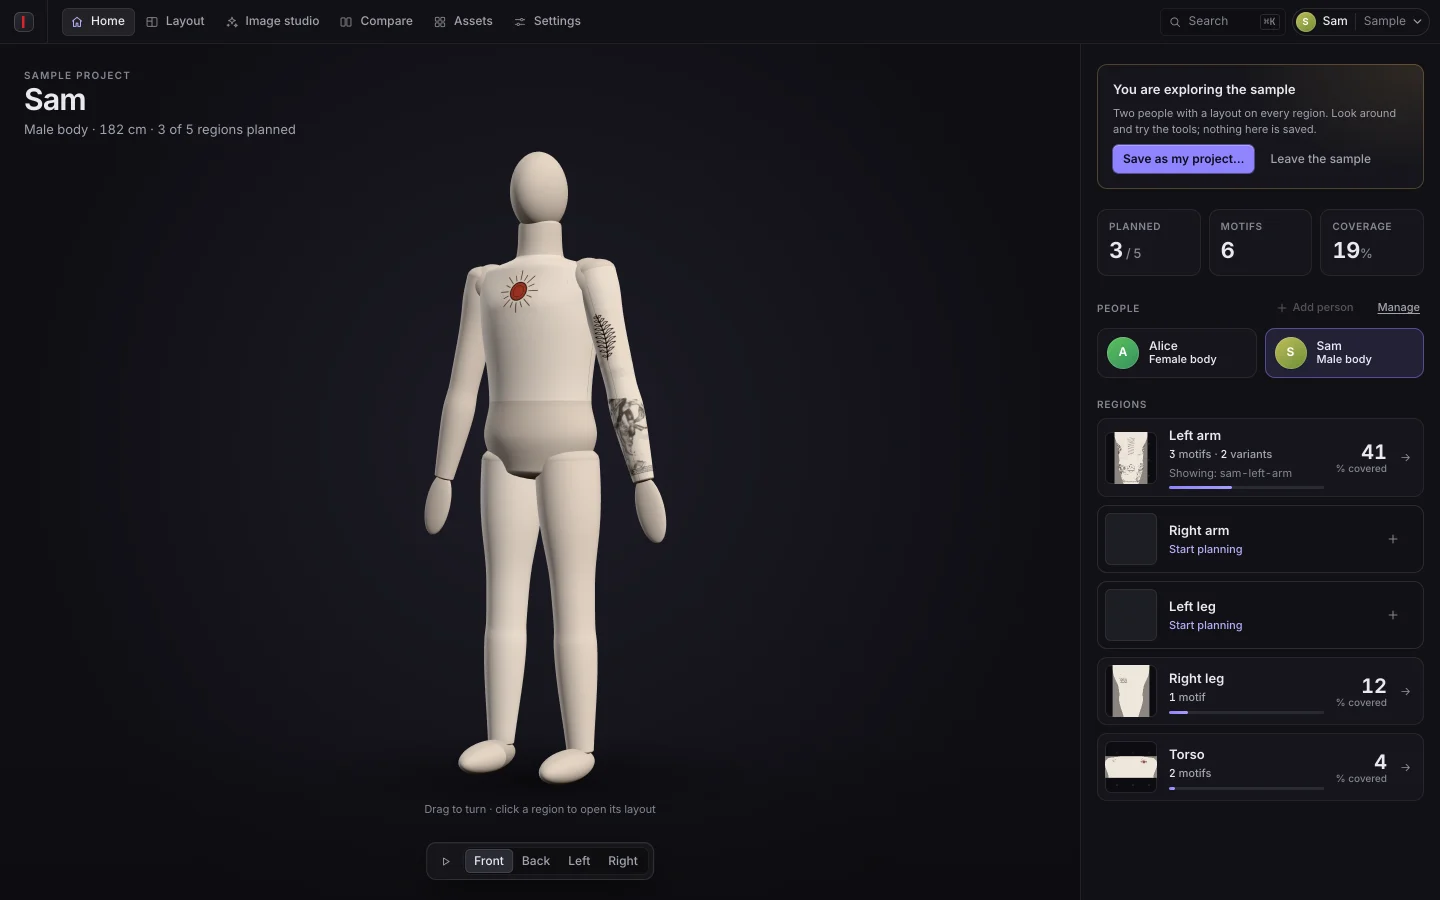
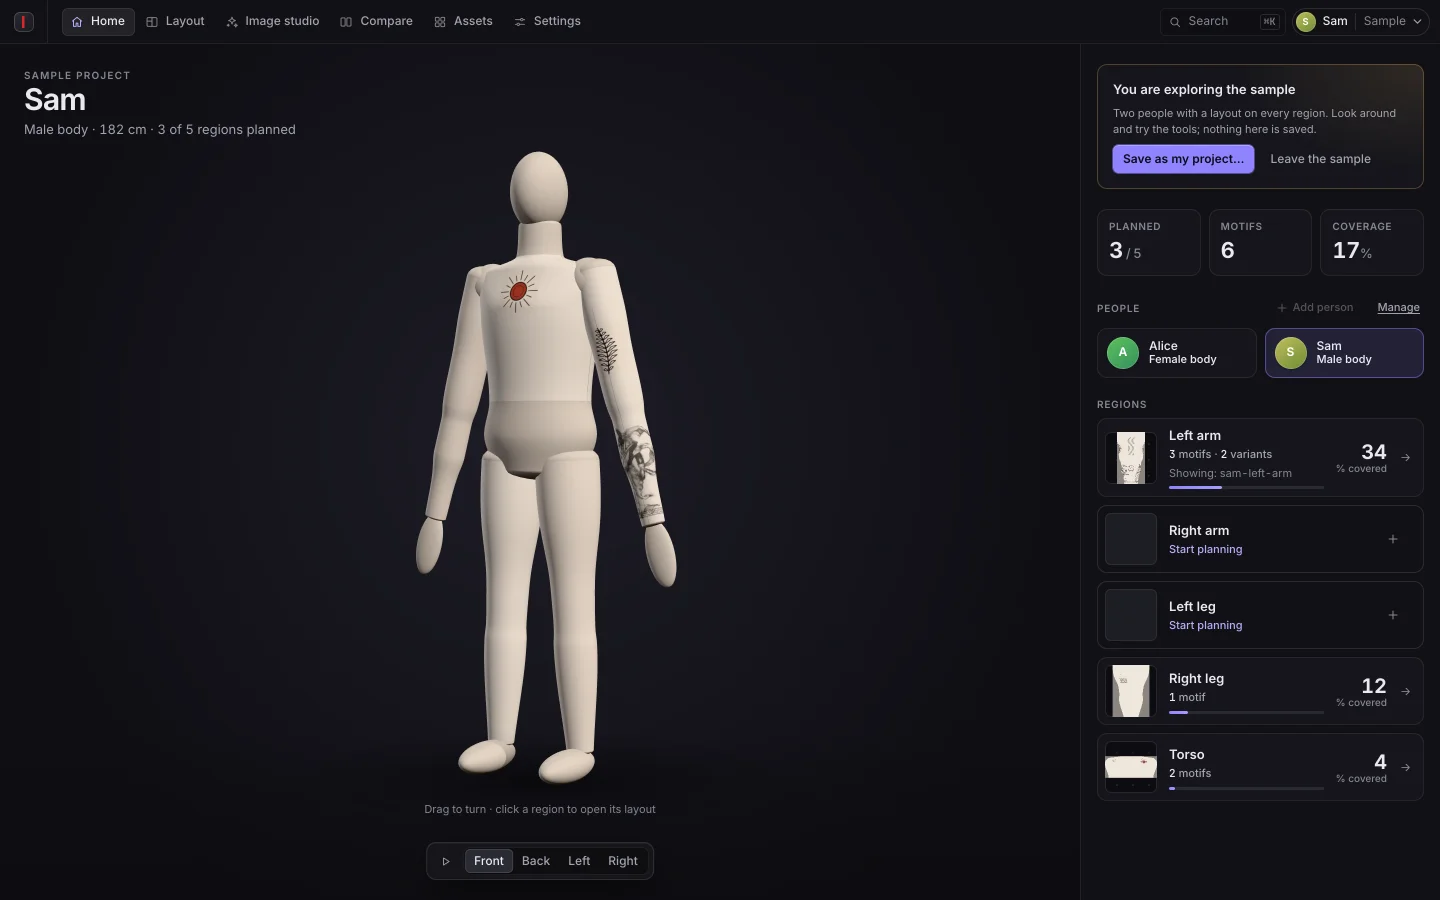
fix(sample): give Sam the author's arm so the Anubis head is not cut off
On the 182 cm sample body's forearm the head, 28 cm above the wrist, ran
over the elbow and was cut off. Sam's left arm now has Jan's measurements
(forearm 30 cm); screenshots regenerated.

diff --git a/docs/usage.md b/docs/usage.md
@@ -4,7 +4,7 @@ The feature reference. Start and setup: [README](../README.md); development, com
 
 ## Sample project
 
-**Explore the sample** on the start screen (or on Home) opens a ready-made project with two people: Alice, a female sample body with a layout on each region (compass, moon and stars and a meander band on the left arm; sun, swallow and a lotus band on the right arm; mountains on the left calf; a fern and scales on the right leg; a mandala and waves on the torso), and Sam, a male body with a sleeve in two variants, a torso and a leg, plus an existing tattoo: the author's Anubis on the inner left forearm, projected from five photos (Settings → Projection). The other images are simple placeholder motifs that the planner draws itself; none of them is real tattoo art.
+**Explore the sample** on the start screen (or on Home) opens a ready-made project with two people: Alice, a female sample body with a layout on each region (compass, moon and stars and a meander band on the left arm; sun, swallow and a lotus band on the right arm; mountains on the left calf; a fern and scales on the right leg; a mandala and waves on the torso), and Sam, a male body with a sleeve in two variants, a torso and a leg, plus an existing tattoo: the author's Anubis on the inner left forearm, projected from five photos (Settings → Projection), on a left arm with the author's measurements. The other images are simple placeholder motifs that the planner draws itself; none of them is real tattoo art.
 
 The sample is **read-only**: you can move things, switch modes and look at every region and the full body, but saving, exporting and image edits are off, and the header shows **Sample (read-only)**. **Save as new project** (Settings → Project; the chip in the header leads there) copies it into a folder you choose, with the placeholder images as PNG files, and opens the copy, which you can change freely.
 

diff --git a/docs/adr/0029-sample-anubis-photos.md b/docs/adr/0029-sample-anubis-photos.md
@@ -5,7 +5,7 @@
 
 ## Decision
 
-- **Sam, the sample's male person, has the Anubis as an existing tattoo.** `samples/demo/persons/sam/projections/anubis.yaml` is the calibration fitted on Jan's arm (five photos), with each photo's points moved into the cropped photo; both of Sam's left-arm variants hold it as a locked `existing` element. Its area is widened to `v: [0, 0.65]` so the workspace does not report that it cuts off what the photos show on Sam's arm.
+- **Sam, the sample's male person, has the Anubis as an existing tattoo.** `samples/demo/persons/sam/projections/anubis.yaml` is the calibration fitted on Jan's arm (five photos), with each photo's points moved into the cropped photo; both of Sam's left-arm variants hold it as a locked `existing` element. Sam's left arm has Jan's measurements (`persons/sam/measurements.yaml`, forearm 30 cm): on the sample body's shorter forearm the head, 28 cm above the wrist, ran over the elbow and was cut off. Its area is widened to `v: [0, 0.65]` so the workspace does not report that it cuts off what the photos show.
 - **Five photos, cropped to the forearm.** `samples/demo/photos/anubis-1.jpg` … `anubis-5.jpg`: Jan's five Anubis photos, turned upright and cropped to the forearm (no table, packages or torso), at most 1600 px on the long side, JPEG. Listed in the sample's manifest as `existing` images.
 - **A third image exception in git**, next to ADR 0019 and ADR 0026: the pre-commit guard and `.gitignore` allow `samples/demo/photos/*.jpg`, directly in that folder, at most 500 KB each. The desktop app ships them (`desktop/electron-builder.config.mjs`).
 - **The server serves and copies them as they are**: `GET /api/assets/image/<id>` in the sample falls back from the drawn placeholder to the real file, and "Save as new project" copies them with the placeholders.

diff --git a/docs/claude-decisions.md b/docs/claude-decisions.md
@@ -578,6 +578,7 @@ Jan: "Mache mit fable 5.2 nochmal ein komplettes review, das die app analysiert 
 
 - **All five Anubis photos, cropped to the forearm**, not only the one Jan named: the calibration fitted on his arm needs all five for the projection to look as it does in his project. The crops leave out the table with medicine packages, the torso and the T-shirt print. _Alternative:_ one photo with a single-photo projection (blurrier and less complete). _Change:_ `samples/demo/photos/`, ADR 0029.
 - **Sam holds the Anubis in both left-arm variants**, at the inner forearm where it is on Jan; the planned motifs (mountains or compass outside, fern inside the upper arm) stay as they were.
-- **The held area is widened to `v: [0, 0.65]`** on Sam's arm, so the projection workspace opens without the note that the saved area cuts off what the photos show.
+- **Sam's left arm has Jan's measurements** (`samples/demo/persons/sam/measurements.yaml`): on the 182 cm sample body's forearm the Anubis head ran over the elbow and was cut off (Jan). _Alternative:_ shrink or move the projection (the photos' cm marks would no longer match).
+- **The held area is widened to `v: [0, 0.65]`**, so the projection workspace opens without the note that the saved area cuts off what the photos show.
 - **Home screenshot turned 75 px to the left** so the inner left forearm faces the camera; the Home 3D view does not zoom, so the tattoo is small there. The projection screenshot shows the workspace (photo with outline and distances, 3D arm, unwrap) instead of the list page.
 - **The female sample person is Alice** (was Alex, which reads as either gender; Jan). Renamed in the sample, the test and the docs, including this log.
